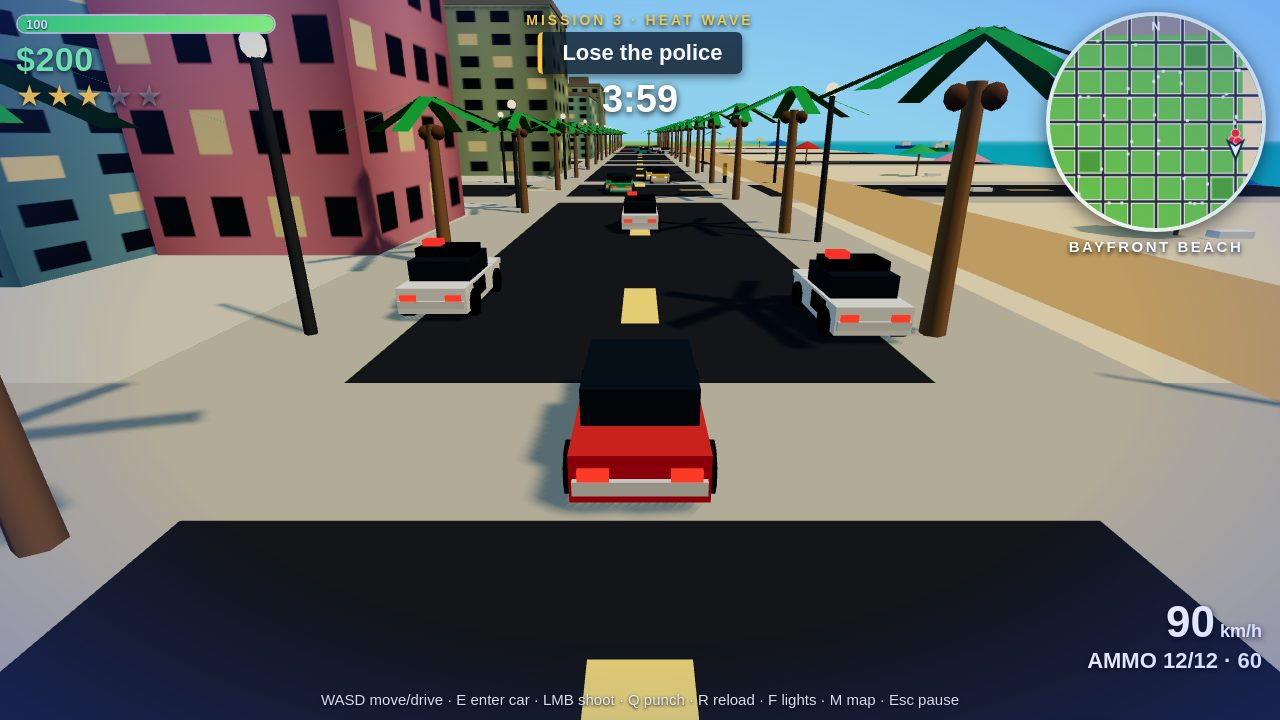
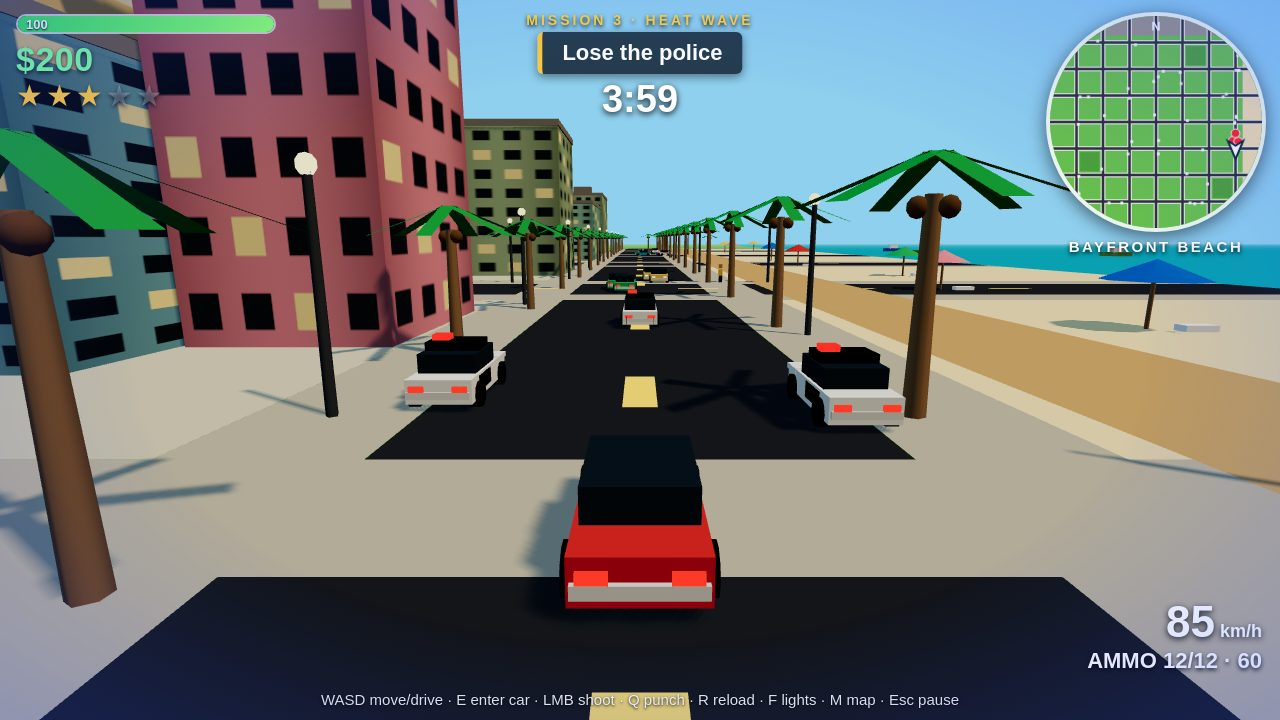
Round 6: fix third-person aim, camera look-ahead, final screenshots
- Camera now looks ahead of the player so the crosshair covers the
  world ahead; pistol fires from the muzzle toward the crosshair aim
  point (was plunging into the ground past ~4m).
- Police 'cruise' formation state for staged chase shots.
- Fixed undefined building material (downtown palette color with no
  texture) that crashed the shadow pass, lamps planted on road
  centers, and re-stage spawning the player car inside the old one.
- Playtest: 31/31 checks pass, zero page errors.

diff --git a/game/src/combat/weapons.js b/game/src/combat/weapons.js
@@ -55,10 +55,21 @@
     MB.Peds.fleeFrom(m.x, m.z, 30);
     if (MB.S.wanted > 0 || MB.W.cops.length > 0) MB.Wanted.addCrime('shoot');
 
-    // Aim: from the camera through the screen center.
+    // Aim: cast from the camera through the screen center to find the
+    // point the crosshair covers, then fire from the muzzle toward it —
+    // the standard third-person solution, so shots land where the
+    // crosshair points instead of plunging into the ground.
     raycaster.setFromCamera({ x: 0, y: 0 }, MB.W.camera);
-    const dir = raycaster.ray.direction;
-    const origin = raycaster.ray.origin;
+    const camDir = raycaster.ray.direction;
+    const camOrigin = raycaster.ray.origin;
+    const aimAt = CFG.pistolRange;
+    const aim = new THREE.Vector3(
+      camOrigin.x + camDir.x * aimAt,
+      Math.max(0.6, camOrigin.y + camDir.y * aimAt),
+      camOrigin.z + camDir.z * aimAt
+    );
+    const origin = muzzlePos();
+    const dir = new THREE.Vector3().subVectors(aim, origin).normalize();
     let best = null, bestD = CFG.pistolRange;
     function testTarget(x, y, z, radius, ref) {
       const dx = x - origin.x, dy = y - origin.y, dz = z - origin.z;
@@ -71,7 +82,7 @@
       }
     }
     MB.W.enemies.forEach(function (e) {
-      if (!e.dead) testTarget(e.pos.x, e.pos.y + 1.2, e.pos.z, 1.6, { type: 'enemy', ref: e });
+      if (!e.dead) testTarget(e.pos.x, e.pos.y + 1.2, e.pos.z, 1.9, { type: 'enemy', ref: e });
     });
     MB.W.peds.forEach(function (pd) {
       if (!pd.dead) testTarget(pd.pos.x, 1.2, pd.pos.z, 1.4, { type: 'ped', ref: pd });

diff --git a/game/src/player/camera.js b/game/src/player/camera.js
@@ -50,7 +50,11 @@
     const cz = tz - Math.cos(yaw) * Math.cos(pitch) * dist;
     const cy = ty + Math.sin(pitch) * dist + curHeight * 0.15 + shake.y;
     cam.position.set(cx, Math.max(1.2, cy), cz);
-    cam.lookAt(tx, ty, tz);
+    // Look ahead of the player, not at the player's head: the crosshair
+    // then points at the world ahead (so the pistol can actually hit
+    // what it covers), and more of the street stays in frame.
+    const ahead = MB.S.inCar ? 9 : 5.5;
+    cam.lookAt(tx + Math.sin(yaw) * ahead, ty - 0.2, tz + Math.cos(yaw) * ahead);
   }
 
   function insideBuilding(x, z) {
